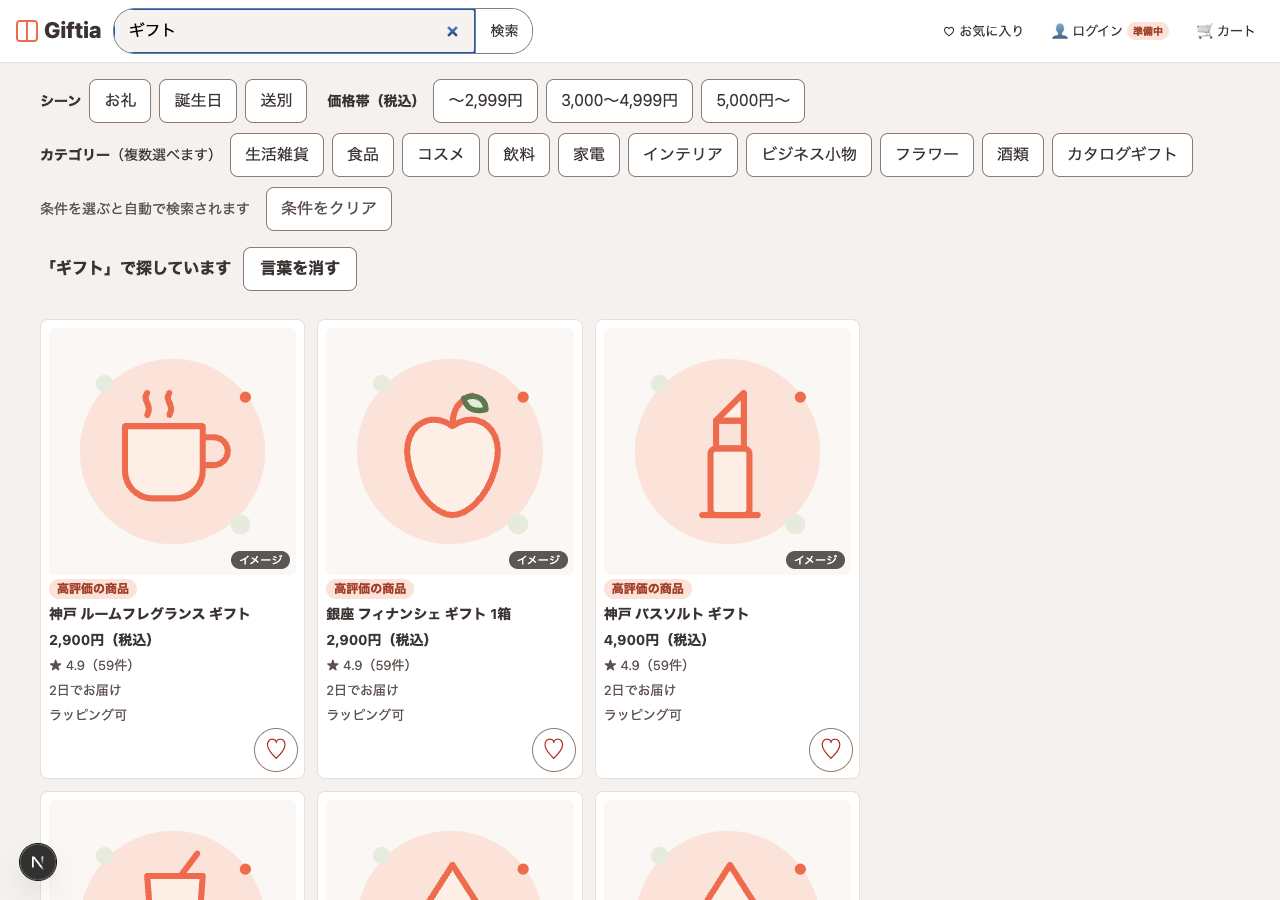
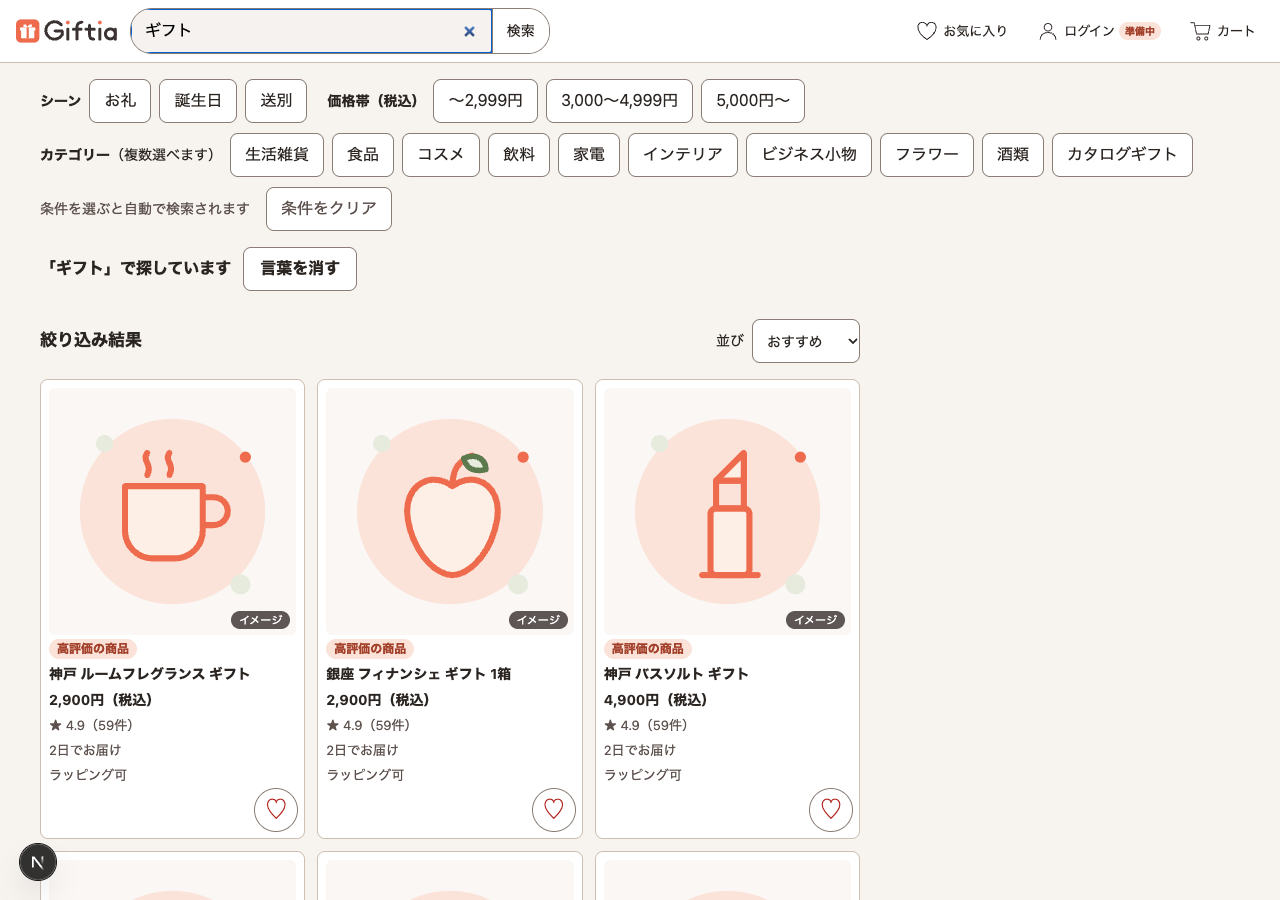
test: [#363 Q3] main acd1ac8 で流し直して証拠を差し替え（S-90 ⑤ だけ範囲の外）

diff --git a/02_プロジェクト/giftia-ui-renewal/evidence/S-121.md b/02_プロジェクト/giftia-ui-renewal/evidence/S-121.md
@@ -1,6 +1,6 @@
-# S-121 ヘッダーの検索欄・虫めがね（F-46・SP-35） — 通った（②の全角英数・⑧の画面での並び替え・④の本物の日本語変換は未実施。2026-11-15）
+# S-121 ヘッダーの検索欄・虫めがね（F-46・SP-35） — 通った（②の全角英数・④の本物の日本語変換は未実施。2026-11-16 に main `acd1ac8` で流し直し）
 
-- 版: 画面 #365 head `7d123011a7b03837fef999b78684b027d9f79671`、API #366 head `9e17436cf8f7ac44642fc1d156b28208cb703ddb`（main `bc556d5` に merge）。実行: 手元の `next dev`（`localhost:3100`）＋偽の DB の API（架空の商品 7,766 件）＋ 実 Chrome（1280px と 375px）。班の DB・本番には繋いでいない。
+- 版: main `acd1ac8`（#366・#368・#372・#374・#365 が入った版。本番にもデプロイ済み）。実行: 手元の `next dev`（`localhost:3100`）＋偽の DB の API（架空の商品 7,766 件）＋ 実 Chrome（1280px と 375px）。班の DB・本番には繋いでいない。本番の画面での確認は #364（PM）。前回（#374 が入る前）は ⑧ が一部未実施だった。
 - ⑨ は PM 決定 19 に合わせた期待で見た: 「言葉で探しても SP-34 ②⑦ は送り、q の中身は送らない」。
 
 | 手順 | 期待 | 実際 | 判定 |
@@ -12,9 +12,9 @@
 | ④ 日本語変換中に Enter | 確定しない | 変換中（`isComposing`、`keyCode` 229）の Enter の合成イベントは止められ、URL は変わらない。**本物の IME は使っていない**（Chrome の自動操作の限界） | ○（合成イベント）／本物の IME は未実施 |
 | ⑤ シーン・価格帯を選んだまま「ギフト」 | 条件は外れず、12 件ずつ | URL `/search?scene=送別&price_band=3000to4999&q=ギフト`、API も同じ 3 つ。12 件・全 184 件（`S-121_5_1280_条件つき.png`） | ○ |
 | ⑥ 空白で 2 つの言葉（「紅茶 ギフト」） | 全部合う商品が上、一部だけが下 | 全 1,114 件。先頭 5 件は「紅茶 ギフト」、6 件目からは「ギフト」だけ（ルームフレグランス・フィナンシェ等） | ○ |
-| ⑦ 合わない言葉（「zzqxjv」） | 「「{言葉}」に合う商品が見つかりませんでした」と「言葉をはずすと n 件」。押すと言葉が外れる | 文言どおり、「言葉をはずすと 7766 件」。押すと `/search`（q なし）・全 7,766 件・欄が空に戻る（`S-121_7_1280_0件.png`） | ○ |
-| ⑧ 並び替えを選んだ状態で言葉 | 選んだ並び替えが優先。選んでいなければ合う順 | **画面に並び替えを選ぶ部品が無い**（`sort` は URL のパラメーターだけ）。URL `?sort=price_asc` で「ギフト」を入れると URL に `sort=price_asc` が残り、12 件とも 1,000 円の安い順。選んでいない（⑥）ときは合う順 | **一部未実施**（画面で選ぶ操作。部品が無い）。URL では ○ |
-| ⑨ 375px。虫めがね | 虫めがねが 4 つのうちの 1 つ。ヘッダーは 1 段。入力欄から同じ結果（ヘッダーの下に開き、もう一度押すか「×」で閉じる）。計測の記録が増えない | 閉じているとき: ヘッダーの高さ 62px の 1 段、ボタンは「検索（虫めがね）・お気に入り・ログイン（準備中）・カート」の 4 つ、検索欄そのものは非表示（`S-121_9_375_1_閉.png`）。押すと高さ 112px で下に入力欄が開き、入力欄に自動でフォーカス（`S-121_9_375_2_開.png`）。「甘いもの」＋ Enter で `/search?q=…`、12 件・全 1,039 件、検索後は閉じる（`S-121_9_375_3_結果.png`）。結果の画面で開くと欄に言葉が入っている（`S-121_9_375_4_結果で開く.png`）。もう一度虫めがねを押す・「×」・Esc のどれでも閉じる。虫めがねの開閉を 7 回くり返しても計測は 0 件（増えない）。 | ○ |
+| ⑦ 合わない言葉（「zzqxjv」） | 「「{言葉}」に合う商品が見つかりませんでした」と「言葉をはずすと n 件」。押すと言葉が外れる | 文言どおり、「言葉をはずすと 7766 件」。押すと（リンクになった）`/search`（q なし）・全 7,766 件・欄が空に戻る（`S-121_7_1280_0件.png`） | ○ |
+| ⑧ 並び替えを選んだ状態で言葉 | 選んだ並び替えが優先。選んでいなければ合う順 | 結果の見出しの右に「並び」の選択（おすすめ・安い順・評価順・早く届く順）が出る。「安い順」を選んでから「ギフト」を入れると、URL は `/search?q=…&sort=price_asc`、選択は「安い順」のまま、12 件とも 1,000 円の安い順（`S-121_8_1280_並び替え.png`）。「おすすめ」に戻すと URL から `sort` が消える。並び替えを選んでいない「紅茶 ギフト」は先頭 5 件が「紅茶 ギフト」（合う順） | ○ |
+| ⑨ 375px。虫めがね | 虫めがねが 4 つのうちの 1 つ。ヘッダーは 1 段。入力欄から同じ結果（ヘッダーの下に開き、もう一度押すか「×」で閉じる）。計測の記録が増えない | 閉じているとき: ヘッダーの高さ 57px の 1 段、ボタンは「検索（虫めがね）・お気に入り・ログイン（準備中）・カート」の 4 つ（ロゴは別）、検索欄そのものは非表示（`S-121_9_375_1_閉.png`）。押すとヘッダーの下に入力欄が開く（ヘッダーの高さは 57px のまま。入力欄は下の内容に重なって出て、ページは押し下げない）、入力欄に自動でフォーカス（`S-121_9_375_2_開.png`）。「甘いもの」＋ Enter で `/search?q=…`、12 件・全 1,039 件、検索後は閉じる（`S-121_9_375_3_結果.png`）。結果の画面で開くと欄に言葉が入っている（`S-121_9_375_4_結果で開く.png`）。もう一度虫めがねを押す・「×」・Esc のどれでも閉じる。虫めがねの開閉を 7 回くり返しても計測は 0 件（増えない）。 | ○ |
 | ⑨ 計測の中身（PM 決定 19） | ②⑦ は送る。q の中身は送らない | 言葉付きの結果で段 2 を 1 回送る（本文は `step`・`visit_id`・`visitor_id` だけ）。価格帯または カテゴリー を選んで 0 件になった言葉付きの検索では、段 2 のあと段 7（`zero_cond` が `price` または `category`）も送る。どの本文にも言葉は含まれない（PC・375px とも） | ○ |
 
 ## 気づいたこと（落ちてはいない）

diff --git a/02_プロジェクト/giftia-ui-renewal/evidence/S-90.md b/02_プロジェクト/giftia-ui-renewal/evidence/S-90.md
@@ -1,15 +1,16 @@
-# S-90 検索結果の条件の 1 行（F-35・SP-31） — 落ちた（2026-11-15）
+# S-90 検索結果の条件の 1 行（F-35・SP-31） — ⑤ だけ範囲の外（2026-11-16 に main `acd1ac8` で流し直し）
 
-- 版: 画面 #365 head `7d123011a7b03837fef999b78684b027d9f79671`、API #366 head `9e17436`（main `bc556d5` に merge）。実行: 手元の `next dev`＋偽の DB の API（架空の商品）＋ 実 Chrome 375×812、1280px。班の DB・本番には繋いでいない。
-- **落ちた理由: 画面に「条件を選ぶ ▼」の 1 行（条件をたたむ部品）が無い。** 条件の欄（シーン・価格帯・カテゴリー）が 375px でもいつも開いたままで、最初のカードが画面の下に押される。この版に SP-31 の実装は入っていない（#365・#366 は検索欄の話で、条件の 1 行は別の仕事に見える。担当は Kurosu には分からない）。直していない。
+- 版: main `acd1ac8`（#366・#368・#372・#374・#365 が入った版）。実行: 手元の `next dev`＋偽の DB の API（架空の商品 7,766 件）＋ 実 Chrome 375×812、1280px。班の DB・本番には繋いでいない。本番の画面での確認は #364（PM）。
+- 前回（main `bc556d5` ＋ #365・#366 の head）は「条件の 1 行が画面に無い」ため × だった。#372 が入り、**条件の 1 行は出るようになった**。流し直した結果が下。
 
 | 手順 | 期待 | 実際 | 判定 |
 | --- | --- | --- | --- |
-| ① R-02 の結果を開く（375px） | ヘッダーに検索欄そのものは出ず、虫めがねは出る。条件が「条件を選ぶ ▼」の 1 行 | 検索欄は非表示・虫めがねは出る（#365 の範囲）。**条件は 1 行ではなく、見出しと選択肢がすべて開いたまま**（`S-90_375_現状.png`） | 虫めがね側 ○ ／条件の 1 行 × |
-| ② 条件の 1 行を押す | 開く | 押す 1 行が無い | × |
-| ③ 1 段目・2 段目・3 段目の見出し | 「シーン」「価格（税込）」「カテゴリー」の小さい見出しで段が分かれ、カテゴリーは T-5 の並び | 見出しは「シーン」「価格帯（税込）」「カテゴリー（複数選べます）」で分かれて出ている（開いたままの状態）。文言は仕様の「価格（税込）」と違う（SP-10 の「価格帯（税込）」のほうに合う。仕様どうしの書き方の違い） | 一部 ○ |
-| ④ 条件を選び、もう一度 1 行を押す | 1 行が「{条件} ▼ 絞り込み」になり、押すと閉じる | 条件を選んでも 1 行にならない | × |
-| ⑤ 最初のカードの上端 | 200〜300px で ○（250px 前後） | **588px**（条件「送別」を選んだ状態。`S-90_375_現状.png`）。範囲を外れる | × |
-| ⑥ 1280px で同じ画面 | 検索欄は入力できる。条件は広げたまま | 検索欄は入力できる（S-121 ①）。条件は広がったまま | ○ |
+| ① R-02 の結果を開く（375px） | ヘッダーに検索欄そのものは出ず、虫めがねは出る。条件が「条件を選ぶ ▼」の 1 行 | 検索欄は非表示、虫めがね 1 つ。条件は「条件を選ぶ ▼」の 1 行で、見出し・選択肢は閉じている（`S-90_375_1_閉.png`） | ○ |
+| ② 条件の 1 行を押す | 開く | 開く | ○ |
+| ③ 開いたら 3 つの見出し | 「シーン」「価格（税込）」「カテゴリー」の小さい見出しで段が分かれ、カテゴリーは T-5 の並び | 「シーン」「価格帯（税込）」「カテゴリー（複数選べます）」で分かれる（`S-90_375_2_開.png`）。仕様 SP-31 は「価格（税込）」、SP-10 は「価格帯（税込）」で、画面は SP-10 のほう。仕様どうしの書き方の違い | ○（文言は上のとおり） |
+| ④ 条件を選び、もう一度 1 行を押す | 選ぶと自動で検索し、1 行が「{条件} ▼ 絞り込み」になり、押すと閉じる | 「送別 ▼ 絞り込み」「3,000〜4,999円 ▼ 絞り込み」「食品 ▼ 絞り込み」。選んだ直後は開いたままで、押すと閉じる。3 つ選ぶと「送別・3,000〜4,999円・食品 ▼ 絞り込み」 | ○ |
+| ⑤ 最初のカードの上端 | 200〜300px で ○（250px 前後） | 条件を選んで 1 行を閉じた状態で **シーン「送別」176px、価格帯 193px、カテゴリー 193px**（何も選ばない状態も 193px）。**3 つとも 200px を下回る**（200〜300px の外）。開いたままだと 651〜668px（`S-90_375_4_選んで閉じた.png` は「送別」で閉じた状態） | **×（範囲の外。カードが上にある側）** |
+| ⑥ 1280px で同じ画面 | 検索欄は入力できる。条件は広げたまま | 検索欄は入力でき、条件は広がったまま（`S-121_8_1280_並び替え.png` の上部） | ○ |
 
-- 数字: 最初のカードの上端 588px（K-7 の合格は 200〜300px）。A-21（受入）も同じ内容のため、これが直るまで流せない。
+- ⑤ は仕様の字面では範囲の外（176〜193px）。「200〜300px に入れば合格」の下側から外れているだけで、カードが目標より**上**に来ている。この下側の外れを許すか、200px 以上に直すかは PM の判断（Kurosu は直さない。仕様は「250px 前後」）。A-21（受入）も同じ数字を使う。
+- 測り方: 最初のカードの `li` の上端をページの上端から測った（スクロールなし。ヘッダーの高さ 57px を含む）。

diff --git a/02_プロジェクト/giftia-ui-renewal/evidence/Q3_結果一覧.md b/02_プロジェクト/giftia-ui-renewal/evidence/Q3_結果一覧.md
@@ -1,25 +1,24 @@
-# Q3（#363）ヘッダーの検索 — テストの結果一覧（2026-11-15。Kurosu）
+# Q3（#363）ヘッダーの検索 — テストの結果一覧（2026-11-16 に流し直し。Kurosu）
 
 ## 見た版
 
 | 何 | 中身 |
 | --- | --- |
-| main | `bc556d5`（#360） |
-| 画面 PR #365（Mi-rin） | head `7d123011a7b03837fef999b78684b027d9f79671` |
-| API PR #366（Terao） | head `9e17436cf8f7ac44642fc1d156b28208cb703ddb`（始めた時の head は `a3cbace`。直しの push が来たので、**新しい head でテストをすべて流し直した**） |
-| 確かめた作業ブランチ | 手元だけ（push しない）。main に #365 と #366 の head を merge したもの（`b8f1f37`）。#365・#366 のブランチには何もしていない |
+| main | `acd1ac85c1f74b608b5430869244a6c5228bfda9`（#366・#368・#372・#374・#365 が入った版。本番にもデプロイ済み） |
+| 流し直し | 2026-11-16。前回（2026-11-15。main `bc556d5` ＋ #365 head `7d12301`・#366 head `9e17436`）は S-90 が × だった。#372・#374・#365 が main に入ったので、すべて流し直して証拠を差し替えた |
+| 確かめた場所 | 手元の `acd1ac8` の checkout。この PR のブランチには origin/main を merge した（force push なし） |
 
 ## 結果
 
 | テスト | 判定 | 要点 | 詳細 |
 | --- | --- | --- | --- |
 | U-89 | 通った | 正規化・言い換え表・近さの点・50/51 文字 | [U-89.md](U-89.md) |
-| I-61 | 通った（一部は偽の DB の範囲） | q の組み合わせ・422・0 件の `relax.no_q`・SQL の断片。DB の件数は前後で同じ | [I-61.md](I-61.md) |
+| I-61 | 通った（偽の DB の範囲） | q の組み合わせ・422・0 件の `relax.no_q`・SQL の断片・助け舟に q を残す。DB の件数は前後で同じ | [I-61.md](I-61.md) |
 | I-62 | 通った（架空 7,766 件。本物の商品名は S-122） | 商品名の語 10/10、ふわっとの語 18/18（合格線 15）。参考値 5 語を記録 | [I-62_確認.md](I-62_確認.md) |
-| S-90 | **落ちた** | ① は ○。②〜⑤ は「条件を選ぶ ▼」の 1 行が画面に無く、375px で最初のカードの上端が 588px（合格は 200〜300px） | [S-90.md](S-90.md) |
-| S-121 | 通った（②の全角英数・⑧の並び替えの画面操作・④の本物の日本語変換は未実施） | ⑨ は PM 決定 19 のとおり。②⑦ は送り、q は送らない | [S-121.md](S-121.md) |
-| NF-57 | 手元の値は通った。本番の測定は未実施（#364） | 手元・偽の DB・架空 7,766 件で 90 パーセンタイル 最大 0.102 秒（目標 2 秒） | [NF-57.md](NF-57.md) |
+| S-90 | **⑤ だけ範囲の外** | ①〜④・⑥ は ○（「条件を選ぶ ▼」の 1 行が出る）。⑤ 最初のカードの上端が 176〜193px（合格は 200〜300px。上側に外れる）。PM の判断 | [S-90.md](S-90.md) |
+| S-121 | 通った（②の全角英数・④の本物の日本語変換は未実施） | ⑧ 並び替えも画面で確認（安い順＋言葉）。⑨ は PM 決定 19 のとおり | [S-121.md](S-121.md) |
+| NF-57 | 手元の値は通った。本番の測定は未実施（#364） | 手元・偽の DB・架空 7,766 件で 90 パーセンタイル 最大 0.104 秒（目標 2 秒） | [NF-57.md](NF-57.md) |
 
-- 落ちたもの（S-90）は直していない。実装は #365・#366 の範囲に入っていないように見えるが、どの Issue の担当かは Kurosu には分からない（god に確認）。
-- 自動テスト: backend `pytest` 206 件 通った・13 件 飛ばした（飛ばしたのは「班の DB に届かない」「`.env` が無い」もの。DB に繋がない約束のため）。frontend `typecheck`・`lint` はエラー 0、`npm test` 187 件 通った。
+- S-90 ⑤ は直していない（仕様は「250px 前後。200〜300px に入れば合格」。今は 176〜193px）。
+- 自動テスト: backend `pytest` 222 件 通った・19 件 飛ばした（飛ばしたのは「班の DB に届かない」「`.env` が無い」もの。DB に繋がない約束のため）。frontend `typecheck`・`lint` はエラー 0、`npm test` 201 件 通った。
 - 使った環境: 手元の Mac。偽の DB（メモリ上の SQLite。架空の商品 7,766 件。`backend/tests/search_support.py`）の API ＋ `next dev`（`localhost:3100`）＋ 実 Chrome（1280px と 375px）。`.env` は読まず、班の DB・本番には触れていない。計測の POST は偽の DB 側で受け（表が無く 500 になる）、班の DB には入っていない。

diff --git a/02_プロジェクト/giftia-ui-renewal/evidence/NF-57.md b/02_プロジェクト/giftia-ui-renewal/evidence/NF-57.md
@@ -1,17 +1,17 @@
 # NF-57 `GET /api/products?q=…` の速さ — 手元の値は通った・本番の測定は未実施（2026-11-15）
 
 - **これは「手元・架空 7,766 件で測った値」で、本番（Azure Functions・班の DB）の測定ではない。本番での測定は #364 へ回す。**
-- 版: #366 head `9e17436`（main `bc556d5` に merge）。実行: 手元の Mac。偽の DB（メモリ上の SQLite。架空の商品 7,766 件）に `TestClient` で 20 回ずつ呼び、1 回ごとの時間を測った。DB のやり取り（ネットワーク）・Azure の起動・通信の時間は**入っていない**。班の DB には繋いでいない。目標は NF-01 の 2 秒（PM 11/15）。
+- 版: main `acd1ac8`（#366・#368・#372・#374・#365 が入った版。本番にもデプロイ済み）。実行: 手元の Mac。偽の DB（メモリ上の SQLite。架空の商品 7,766 件）に `TestClient` で 20 回ずつ呼び、1 回ごとの時間を測った。DB のやり取り（ネットワーク）・Azure の起動・通信の時間は**入っていない**。班の DB には繋いでいない。目標は NF-01 の 2 秒（PM 11/15）。
 
 | 呼び方（20 回ずつ） | 中央値 | 90 パーセンタイル | 最大 |
 | --- | --- | --- | --- |
-| `q` 1 語（甘いもの。言い換えで広がる） | 95.6 ms | 98.7 ms | 122.3 ms |
-| `q` 2 語（紅茶 ギフト） | 48.3 ms | 50.5 ms | 65.7 ms |
-| `q` 2 語（疲れている人に 職場に配れる。どちらも広がる） | 99.6 ms | 102.2 ms | 115.2 ms |
-| `q` と 3 条件（甘いもの・誕生日・`3000to4999`・飲料） | 33.5 ms | 33.9 ms | 34.0 ms |
-| 最初の 1 回（言葉の索引を作る分。索引を消して測った） | 42.8 ms | — | — |
+| `q` 1 語（甘いもの。言い換えで広がる） | 99.3 ms | 102.4 ms | 107.3 ms |
+| `q` 2 語（紅茶 ギフト） | 49.2 ms | 53.0 ms | 65.5 ms |
+| `q` 2 語（疲れている人に 職場に配れる。どちらも広がる） | 100.4 ms | 104.2 ms | 121.9 ms |
+| `q` と 3 条件（甘いもの・誕生日・`3000to4999`・飲料） | 33.4 ms | 34.3 ms | 38.2 ms |
+| 最初の 1 回（言葉の索引を作る分。索引を消して測った） | 41.8 ms | — | — |
 
-- 手元の値は 90 パーセンタイルで最大 0.102 秒。目標 2 秒の約 1/20。**手元の値としては ○**。（1 回目の計測と、#366 の直し後の流し直しで、値は 10〜30 ms の範囲で前後した。結論は変わらない。）
+- 手元の値は 90 パーセンタイルで最大 0.104 秒。目標 2 秒の約 1/20。**手元の値としては ○**。（#366 の直し前・直し後・main `acd1ac8` の 3 回測り、値は数 ms〜30 ms の範囲で前後した。結論は変わらない。）
 - 「言葉の中身が計測の表とアプリのログに無い」: アプリのログに言葉が出ない（`test_q_not_logged` ○。51 文字の 422 のときも）。計測（`/api/events`）の本文は `visit_id`・`visitor_id`・`step`・`entry` だけで、言葉は含まない（S-121 ⑨。`q` を使った検索のあと本文に言葉を含むかを調べ、0 件）。計測の「表」そのもの（`usage_events`）の中身は、DB に繋がないので見ていない。
 - 「追加した jaconv・rapidfuzz で Functions が起動する」: **未実施**（Azure Functions の環境が要る。#364）。手元の `pytest`（`test_function_app.py` を含む）は通った。
 

diff --git a/02_プロジェクト/giftia-ui-renewal/evidence/I-62_確認.md b/02_プロジェクト/giftia-ui-renewal/evidence/I-62_確認.md
@@ -1,6 +1,6 @@
 # I-62 検索の当たりの測定 — 通った（架空 7,766 件。2026-11-15）
 
-- 版: #366 head `9e17436`（main `bc556d5` に merge）。実行: Kurosu が偽の DB（メモリ上の SQLite。架空の商品 7,766 件。名前は規則で作った。**本物の商品名ではない**。班の DB には繋いでいない）の API を `TestClient` で呼び、28 語の 1 ページ目（12 件）を見た。当たりの条件は Terao の案（`backend/tests/search_support.py` の `QUERIES28`）をそのまま使った。Terao の `evidence/I-62.md`（#366 に入っている）とは別に、Kurosu が流し直した結果。
+- 版: main `acd1ac8`（#366・#368・#372・#374・#365 が入った版。本番にもデプロイ済み）。実行: Kurosu が偽の DB（メモリ上の SQLite。架空の商品 7,766 件。名前は規則で作った。**本物の商品名ではない**。班の DB には繋いでいない）の API を `TestClient` で呼び、28 語の 1 ページ目（12 件）を見た。当たりの条件は Terao の案（`backend/tests/search_support.py` の `QUERIES28`）をそのまま使った。Terao の `evidence/I-62.md`（#366 に入っている）とは別に、Kurosu が流し直した結果。
 - 合格線（I-62）: 商品名の語は 10 語すべて、ふわっとの語は 18 語のうち 15 語以上。**結果: 商品名 10/10、ふわっと 18/18 ○**。
 - 「当たり」＝ 1 ページ目の 1 位が当たりの条件に合う（かつ 1 件以上）。下の「当たり／12」は 1 ページ目 12 件のうち条件に合う件数。
 - あわせて「手土産に」の結果にハンドクリームが出ない（文字の近さだけの外れ）: 1 ページ目 0 件 ○。`test_no_char_only_noise` も通った。

diff --git a/02_プロジェクト/giftia-ui-renewal/evidence/I-61.md b/02_プロジェクト/giftia-ui-renewal/evidence/I-61.md
@@ -1,6 +1,6 @@
 # I-61 `GET /api/products?q=…` — 通った（偽の DB の範囲。2026-11-15）
 
-- 版: #366 head `9e17436`（main `bc556d5` に merge）。実行: Kurosu が偽の DB（メモリ上の SQLite。架空の商品 7,766 件）の API を `TestClient` で呼んだ。班の DB には繋がない。あわせて `pytest tests/test_search.py`（14 件）が通った。
+- 版: main `acd1ac8`（#366・#368・#372・#374・#365 が入った版。本番にもデプロイ済み）。実行: Kurosu が偽の DB（メモリ上の SQLite。架空の商品 7,766 件）の API を `TestClient` で呼んだ。班の DB には繋がない。あわせて `pytest tests/test_search.py`（15 件）が通った。
 - **班の DB（`share_links`・`usage_events` の件数）では確かめていない**。偽の DB にこの 2 つの表は無い。代わりに「偽の DB の全表（`products`・`product_scenes`・`orders`・`order_items`）の件数が前後で同じ」と、「q を付けた呼び出しが書き込みの関数を 1 回も呼ばない」（`test_q_is_text_not_sql`）を確かめた。実際の DB での件数は、DB に繋ぐ許可が出てから。
 
 | 送ったもの | 期待 | 結果 |
@@ -16,7 +16,7 @@
 | `q=' OR 1=1 --` | 文字として扱う。DB は壊れない | 200・0 件（`no_q` 7,766）。表の件数は前後で同じ ○ |
 | `q='; DROP TABLE products; --` | 同上 | 200・0 件。`products` は 7,766 件のまま ○ |
 
-## #366 の直し（`9e17436`。0 件の助け舟にも q を残す）の確認
+## 0 件の助け舟にも q を残す直し（#366）の確認
 
 | 送ったもの | 全件 | `relax`（価格帯をはずす／カテゴリーをはずす／言葉をはずす） |
 | --- | --- | --- |

diff --git a/02_プロジェクト/giftia-ui-renewal/evidence/U-89.md b/02_プロジェクト/giftia-ui-renewal/evidence/U-89.md
@@ -1,6 +1,6 @@
 # U-89 言葉の正規化・言い換え表・近さの点の部品 — 通った（2026-11-15）
 
-- 版: #366 head `9e17436`（main `bc556d5` に merge）。実行: `backend/` で `pytest tests/test_search.py`（偽の DB。DB には繋がない）。14 件すべて通った。
+- 版: main `acd1ac8`（#366・#368・#372・#374・#365 が入った版。本番にもデプロイ済み）。実行: `backend/` で `pytest tests/test_search.py`（偽の DB。DB には繋がない）。15 件すべて通った。
 - 別に Kurosu が部品を直接呼んで確かめた（下）。
 
 | 入れたもの | 期待 | 結果 |
